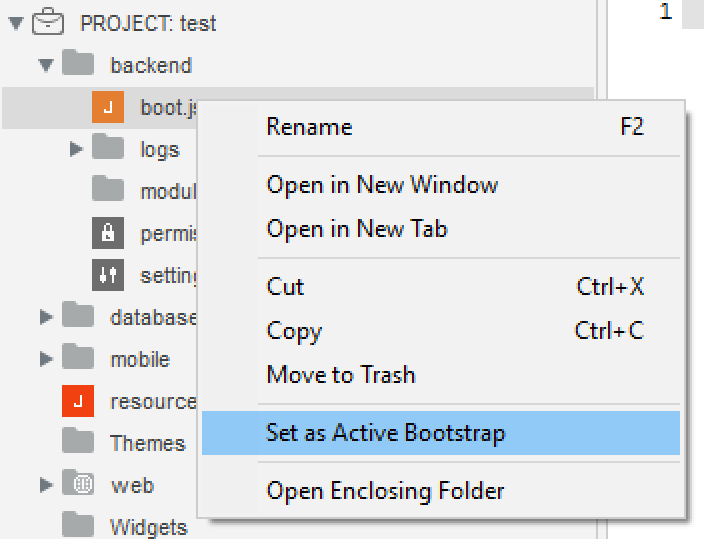
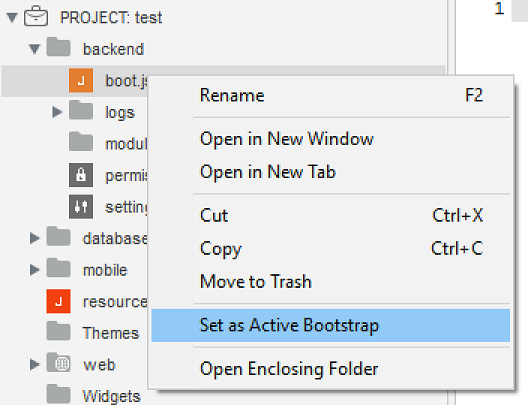
Add solution and project pages + resize images

diff --git a/app/documentation/pages/overview.html b/app/documentation/pages/overview.html
@@ -13,7 +13,7 @@
             <ul>
                 <li>Uses V8 as JavaScript runtime</li>
                 <li>Exposes a rich API to handle filesystem, sockets, HTTP Requests, internal or remote databases, workers..</li>
-                <li>Since Wakanda SSJS is different than NodeJS' SSJS, you can use the NodeWorker API to start and use a NodeJS thread inside Wakanda Server</li>
+                <!--<li>Since Wakanda SSJS is different than NodeJS' SSJS, you can use the NodeWorker API to start and use a NodeJS thread inside Wakanda Server</li>-->
                 <li>Provides a debugger based on Chrome DevTools to debug the different running JavaScript contexts (one context per thread)</li>
             </ul>
         </li>
@@ -38,9 +38,9 @@
         <li>
             WakandaDB (Internal DataBase)
             <ul>
+                <!--<li></li>
                 <li></li>
-                <li></li>
-                <li></li>
+                <li></li>-->
             </ul>
         </li>
         <li>

diff --git a/app/documentation/pages/overview/solution.html b/app/documentation/pages/overview/solution.html
@@ -1,3 +1,22 @@
 <h1>Solution</h1>
 
+<h2>What is it</h2>
+
+<p>
+    <ul>
+        <li>A Wakanda Solution is a full Wakanda application</li>
+        <li>It can reference one or multiple projects (cf <a href="#/doc/overview/project">Project</a>)</li>
+    </ul>
+</p>
+
+<h2>How to</h2>
+
+<p>
+    To create a new solution you can use the Home tab or the file menu.   
+    
+    <img src="./documentation/images/create_solution_home_page.png" alt="Create solution via the Home tab" class="img-responsive">
+    <br>
+    <img src="./documentation/images/create_solution_file_menu.png" alt="Create solution via the file menu" class="img-responsive">
+</p>
+
 <doc-pagination page="{{currentPage}}" subpage="{{currentSubPage}}"></doc-pagination>

diff --git a/app/documentation/pages/overview/project.html b/app/documentation/pages/overview/project.html
@@ -1,3 +1,22 @@
 <h1>Project</h1>
 
+<h2>What is it</h2>
+
+<p>
+    <ul>
+        <li>A Wakanda Solution usually contains a single Project</li>
+        <li>A Project exposes by default an HTTP server</li>
+        <li>Two projects can listen on the same port but have different hostnames</li>
+        <li>Your code resides inside of a project</li>
+    </ul>
+</p>
+
+<h2>How to</h2>
+
+<p>
+    To create a new project ...
+    
+    <img src="" alt="Create a new project from the solution's context menu" class="img-responsive">
+</p>
+
 <doc-pagination page="{{currentPage}}" subpage="{{currentSubPage}}"></doc-pagination>

diff --git a/app/style/_documentation.scss b/app/style/_documentation.scss
@@ -4,3 +4,9 @@
 snippets-tabs pre {
   max-height: 1000px;
 }
+
+img.illustration{
+  padding-top: 5px;
+  padding-bottom: 5px;
+}
+

diff --git a/app/home/home.html b/app/home/home.html
@@ -5,5 +5,5 @@
 </div>
 
 <div class="row">
-  Lorem ipsum.
+
 </div>
